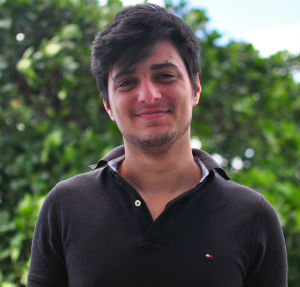
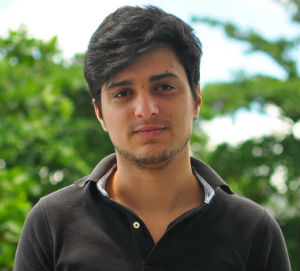
troca da foto de bruno e colocando os likedin's

diff --git a/core/templates/index.html b/core/templates/index.html
@@ -382,10 +382,10 @@
                         <ul class="list-inline social-buttons">
                             <!--<li><a href="#"><i class="fa fa-twitter"></i></a>-->
                             <!--</li>-->
-                            <li><a href="https://www.facebook.com/rachelgoncalves?fref=ts" target="_blank"><i class="fa fa-facebook"></i></a>
-                            </li>
-                            <!--<li><a href="#"><i class="fa fa-linkedin"></i></a>-->
+                            <!--<li><a href="https://www.facebook.com/rachelgoncalves?fref=ts" target="_blank"><i class="fa fa-facebook"></i></a>-->
                             <!--</li>-->
+                            <li><a href=""><i class="fa fa-linkedin"></i></a>
+                            </li>
                         </ul>
                     </div>
                 </div>
@@ -397,10 +397,10 @@
                         <ul class="list-inline social-buttons">
                             <!--<li><a href="#"><i class="fa fa-twitter"></i></a>-->
                             <!--</li>-->
-                            <li><a href="https://www.facebook.com/munizbruno?fref=ts" target="_blank"><i class="fa fa-facebook"></i></a>
-                            </li>
-                            <!--<li><a href="#"><i class="fa fa-linkedin"></i></a>-->
+                            <!--<li><a href="https://www.facebook.com/munizbruno?fref=ts" target="_blank"><i class="fa fa-facebook"></i></a>-->
                             <!--</li>-->
+                            <li><a href="https://br.linkedin.com/in/bruno-muniz-1ba381100" target="_blank"><i class="fa fa-linkedin"></i></a>
+                            </li>
                         </ul>
                     </div>
                 </div>
@@ -412,10 +412,10 @@
                         <ul class="list-inline social-buttons">
                             <!--<li><a href="#"><i class="fa fa-twitter"></i></a>-->
                             <!--</li>-->
-                            <li><a href="https://www.facebook.com/Brenor2?fref=ts" target="_blank"><i class="fa fa-facebook"></i></a>
-                            </li>
-                            <!--<li><a href="#"><i class="fa fa-linkedin"></i></a>-->
+                            <!--<li><a href="https://www.facebook.com/Brenor2?fref=ts" target="_blank"><i class="fa fa-facebook"></i></a>-->
                             <!--</li>-->
+                            <li><a href="https://br.linkedin.com/in/breno-rios-ramos-71a586bb" target="_blank"><i class="fa fa-linkedin"></i></a>
+                            </li>
                         </ul>
                     </div>
                 </div>
@@ -428,10 +428,10 @@
                         <ul class="list-inline social-buttons">
                             <!--<li><a href="#"><i class="fa fa-twitter"></i></a>-->
                             <!--</li>-->
-                            <li><a href="https://www.facebook.com/rachelgoncalves?fref=ts" target="_blank"><i class="fa fa-facebook"></i></a>
-                            </li>
-                            <!--<li><a href="#"><i class="fa fa-linkedin"></i></a>-->
+                            <!--<li><a href="" target="_blank"><i class="fa fa-facebook"></i></a>-->
                             <!--</li>-->
+                            <li><a href="https://br.linkedin.com/in/matheus-lins-a9592b99" target="_blank"><i class="fa fa-linkedin"></i></a>
+                            </li>
                         </ul>
                     </div>
                 </div>
@@ -443,10 +443,10 @@
                         <ul class="list-inline social-buttons">
                             <!--<li><a href="#"><i class="fa fa-twitter"></i></a>-->
                             <!--</li>-->
-                            <li><a href="https://www.facebook.com/rachelgoncalves?fref=ts" target="_blank"><i class="fa fa-facebook"></i></a>
-                            </li>
-                            <!--<li><a href="#"><i class="fa fa-linkedin"></i></a>-->
+                            <!--<li><a href="" target="_blank"><i class="fa fa-facebook"></i></a>-->
                             <!--</li>-->
+                            <li><a href="#" target="_blank"><i class="fa fa-linkedin"></i></a>
+                            </li>
                         </ul>
                     </div>
                 </div>
@@ -486,7 +486,7 @@
     <section id="contact">
         <div class="container">
             <div class="row">
-                <div class="col-lg-12 text-center">
+                <div class="col-lg-122 text-center">
                     <h2 class="section-heading">Contato</h2>
                     <h3 class="section-subheading text-muted">Dúvidas sobre nosso serviço ?</h3>
                 </div>
